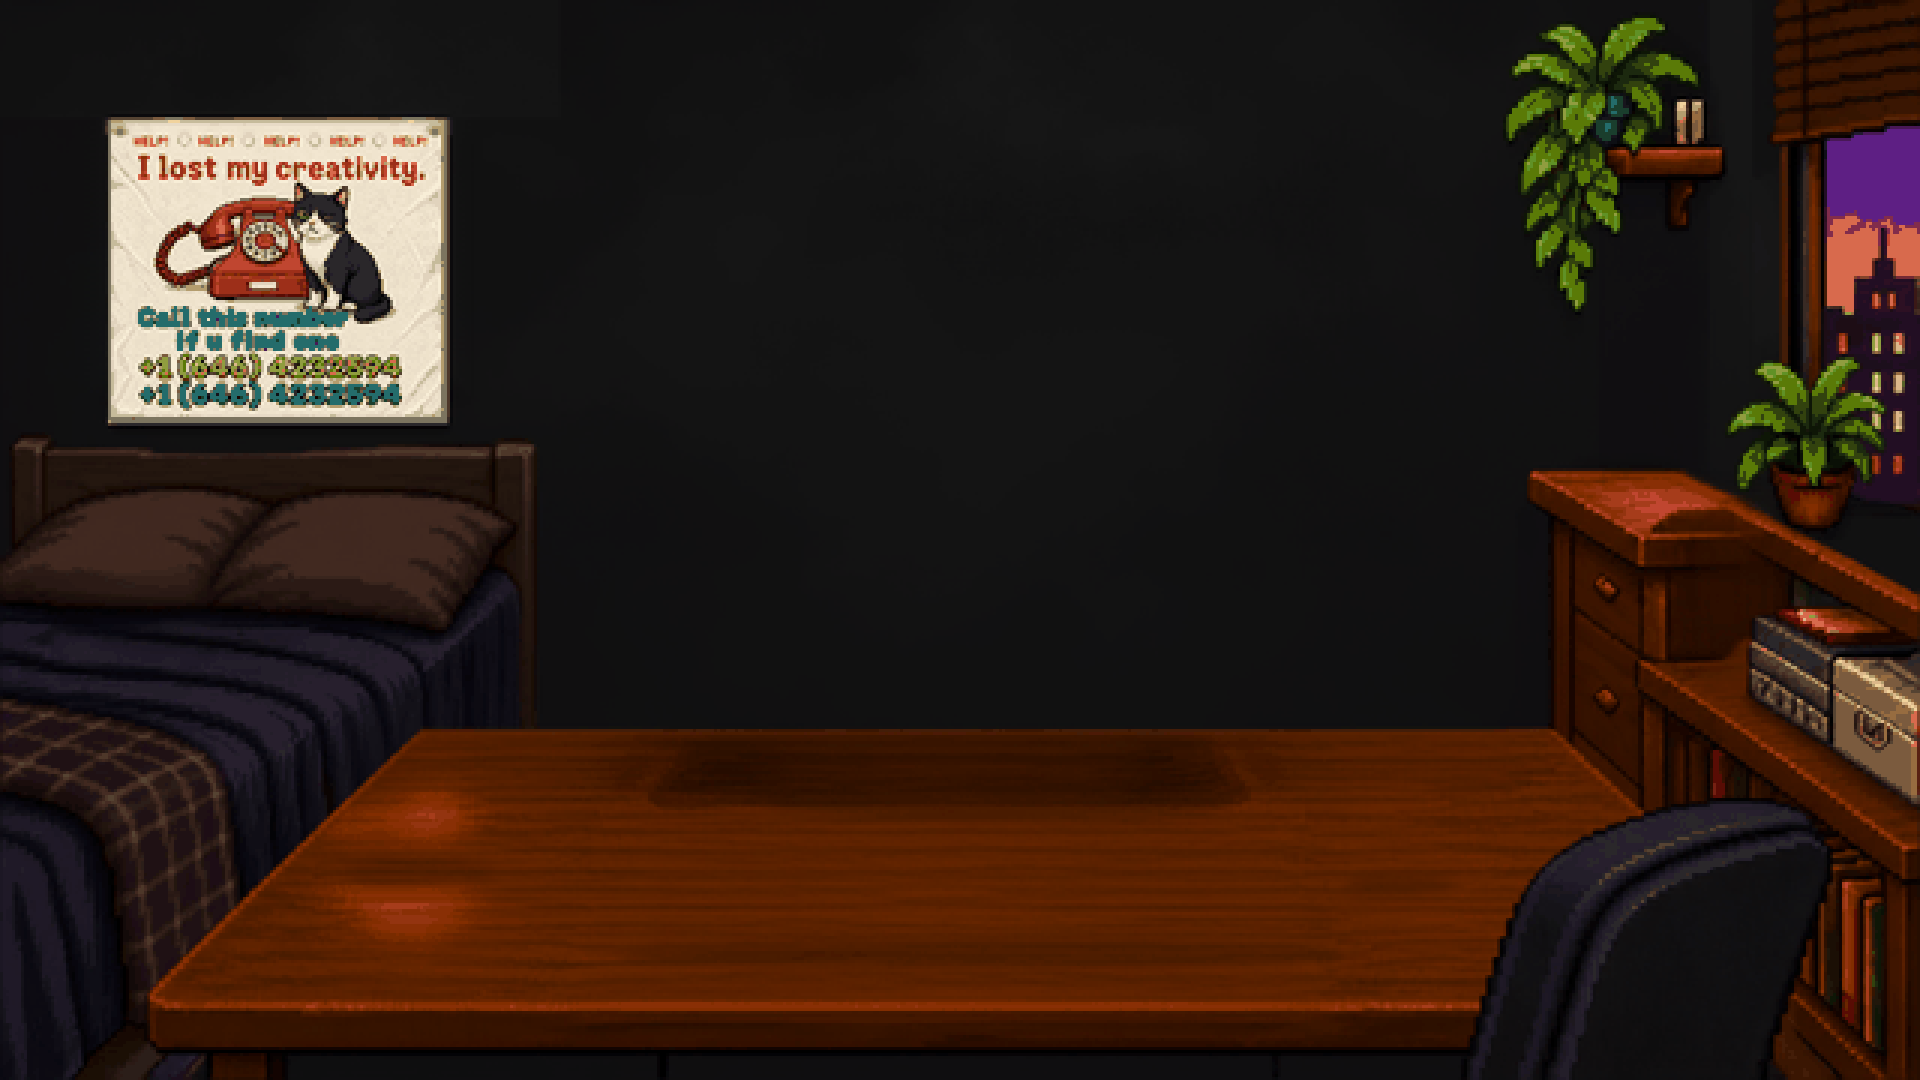
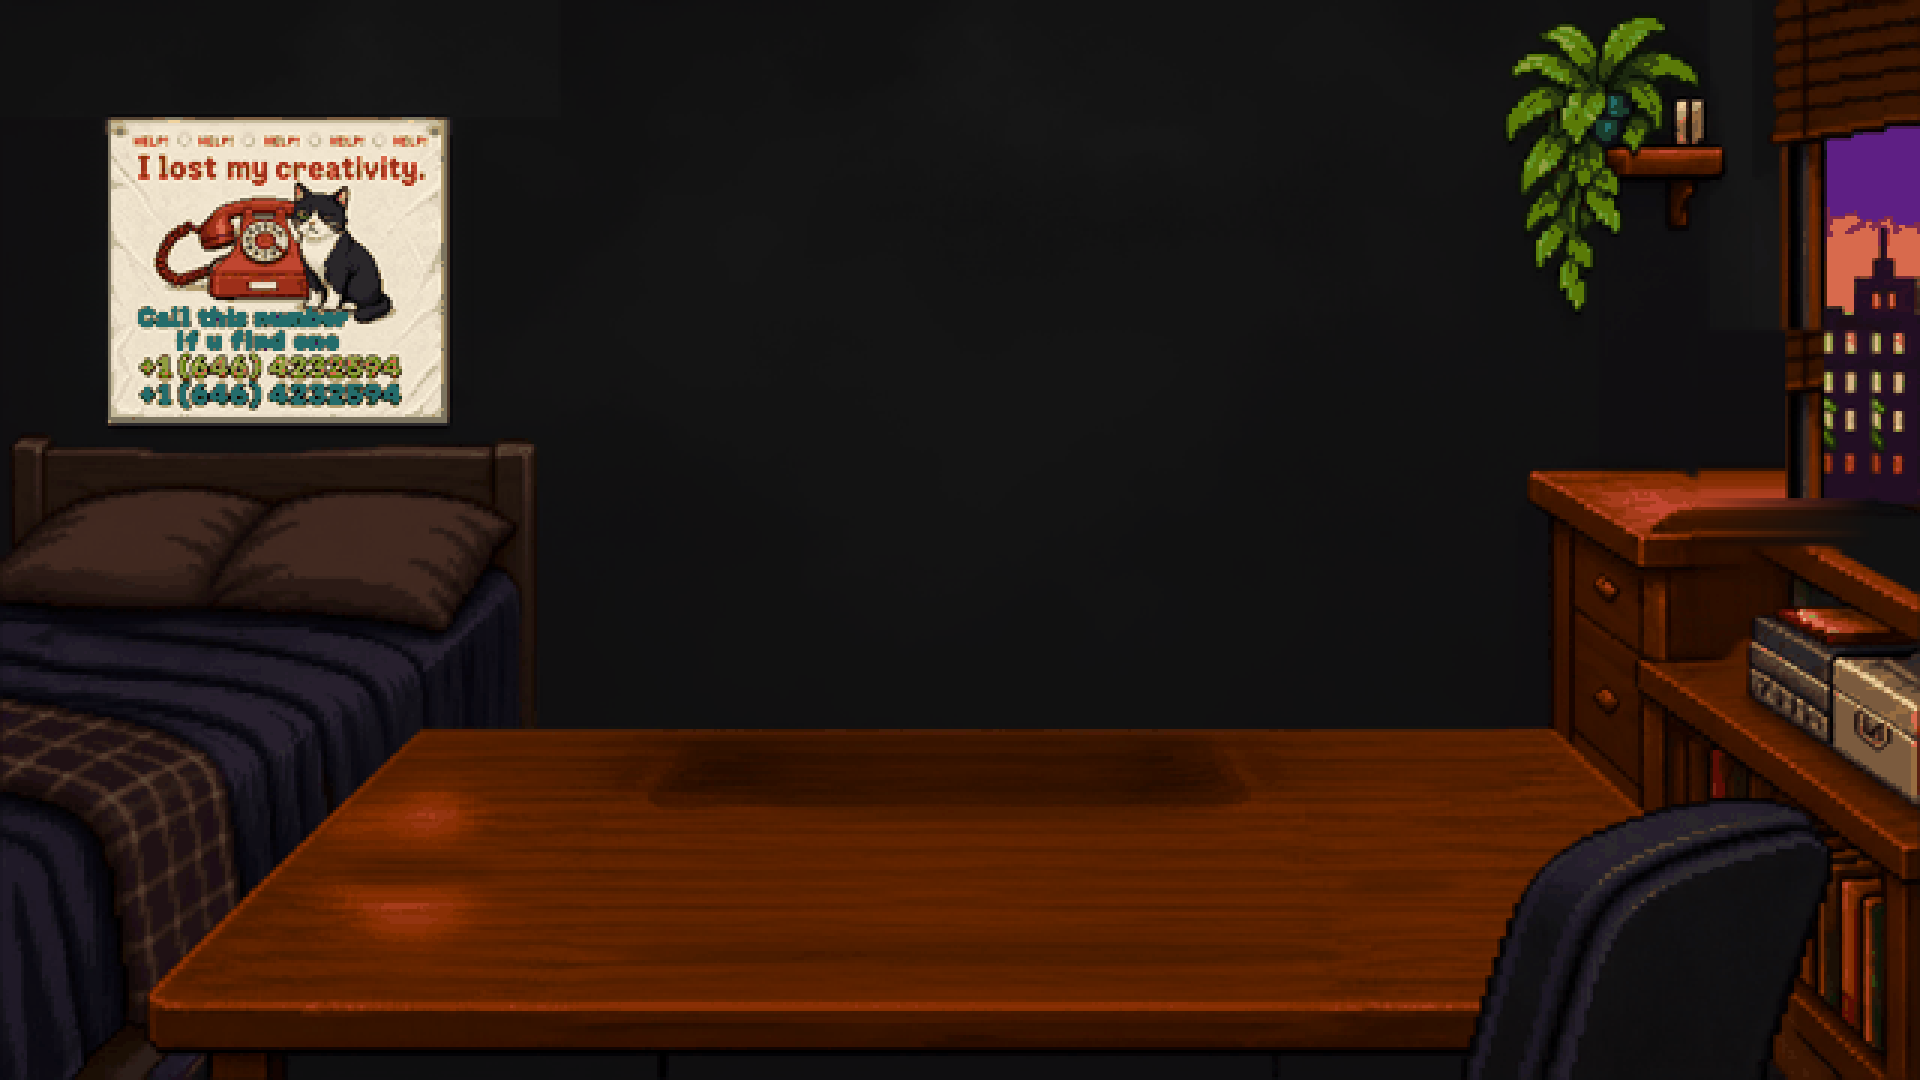
Guacamaya reemplaza la planta de la ventana

Changed region(s): [[0.875, 0.3056, 1.0, 0.5194]]

diff --git a/index.html b/index.html
@@ -138,7 +138,7 @@
 </head>
 <body>
   <div class="scene labeled" id="scene">
-    <img class="bg" src="assets/bg.png" alt="room">
+    <img class="bg" src="assets/bg.png?v=2" alt="room">
     <div class="el region" id="bg-poster" data-name="poster"
          style="left:5.625%; top:10.926%; width:17.708%; height:28.426%;">
       <span class="tag">bg: poster</span>
@@ -168,10 +168,6 @@
     <div class="el region" id="bg-plant-hanging" data-name="plant-hanging"
          style="left:78.125%; top:1.389%; width:10.417%; height:27.778%;">
       <span class="tag">bg: plant-hanging</span>
-    </div>
-    <div class="el region" id="bg-plant-pot" data-name="plant-pot"
-         style="left:89.844%; top:32.870%; width:6.250%; height:16.204%;">
-      <span class="tag">bg: plant-pot</span>
     </div>
     <div class="el region" id="bg-shelf" data-name="shelf"
          style="left:91.146%; top:51.852%; width:8.854%; height:48.148%;">
@@ -226,7 +222,7 @@
     <div class="lamp-glow" id="lampGlow"></div>
     <div class="zzz" id="el-zzz"><img src="assets/zzz.png" alt="zzz"></div>
     <div class="el sprite" id="el-guacamaya" data-name="guacamaya" title="guacamaya"
-         style="left:91.000%; top:19.000%; width:4.700%;"
+         style="left:90.300%; top:40.200%; width:5.400%;"
          onclick="toggleGuacamaya()">
       <img src="assets/guacamaya.png" alt="guacamaya">
       <span class="tag">guacamaya</span>
